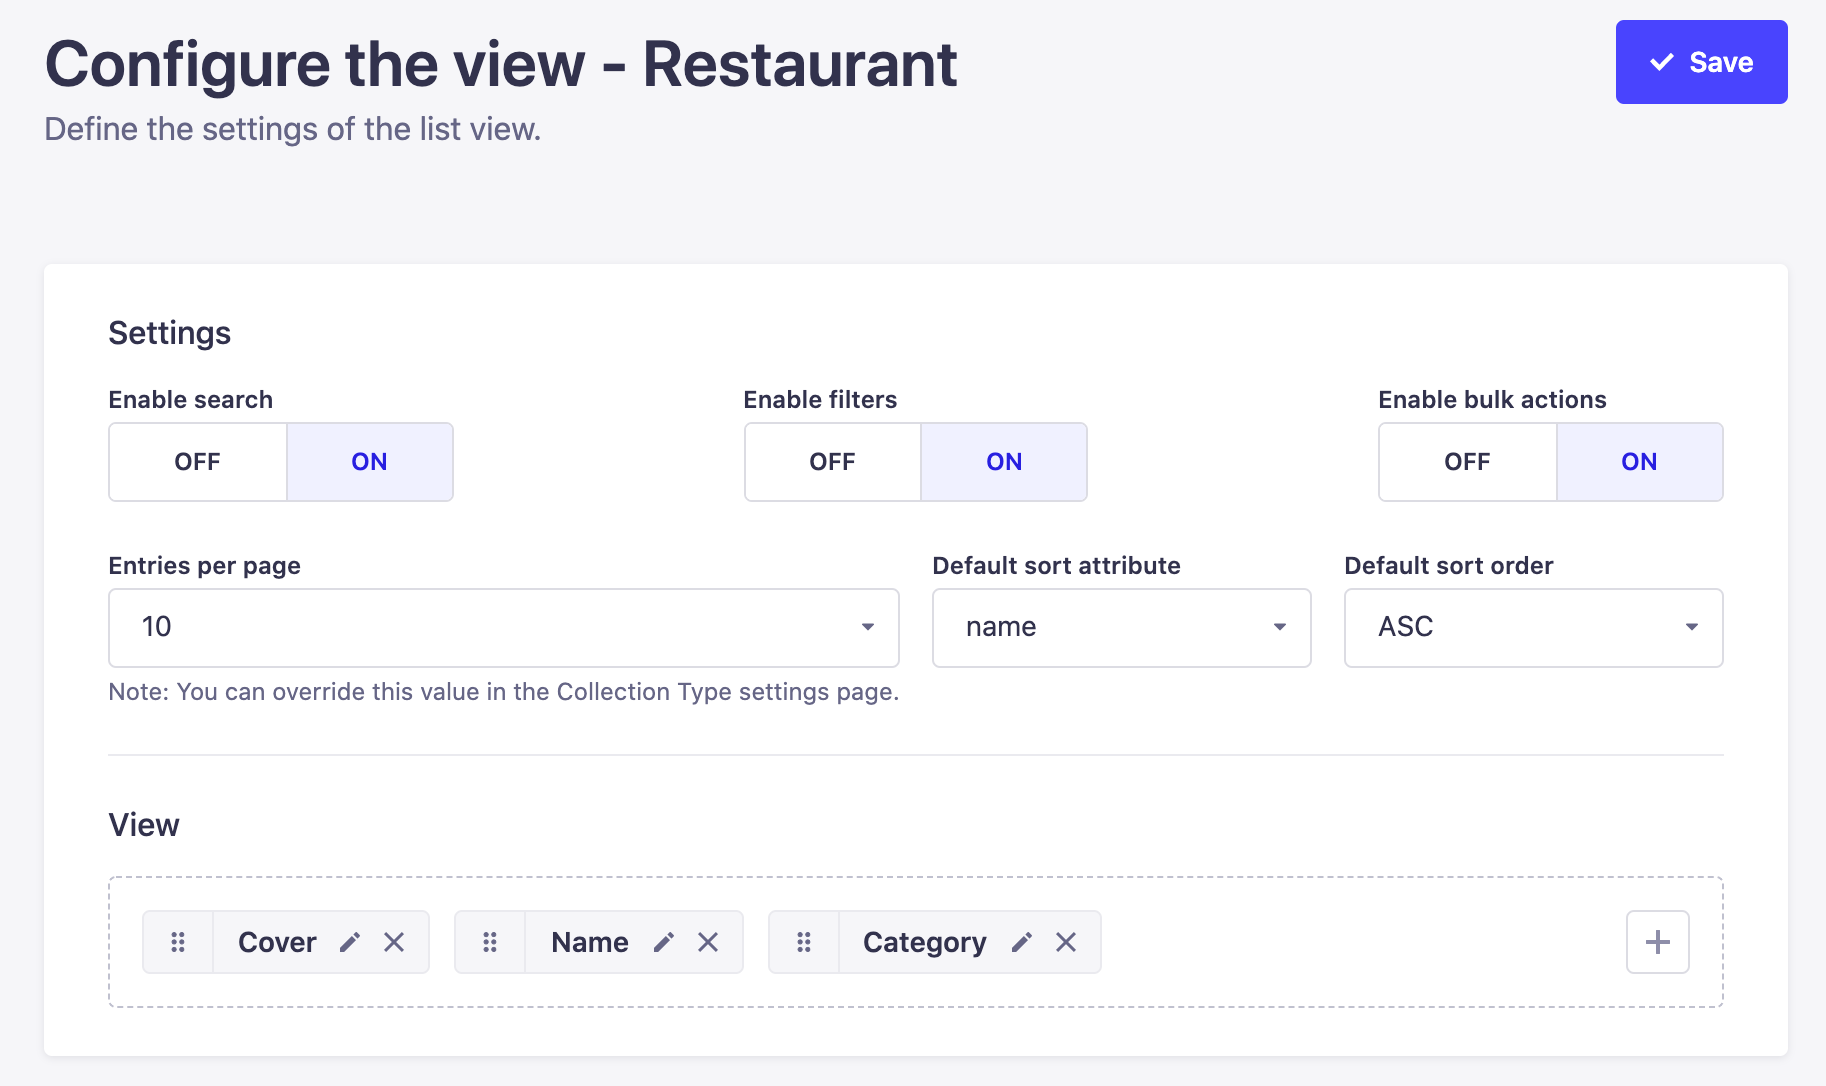
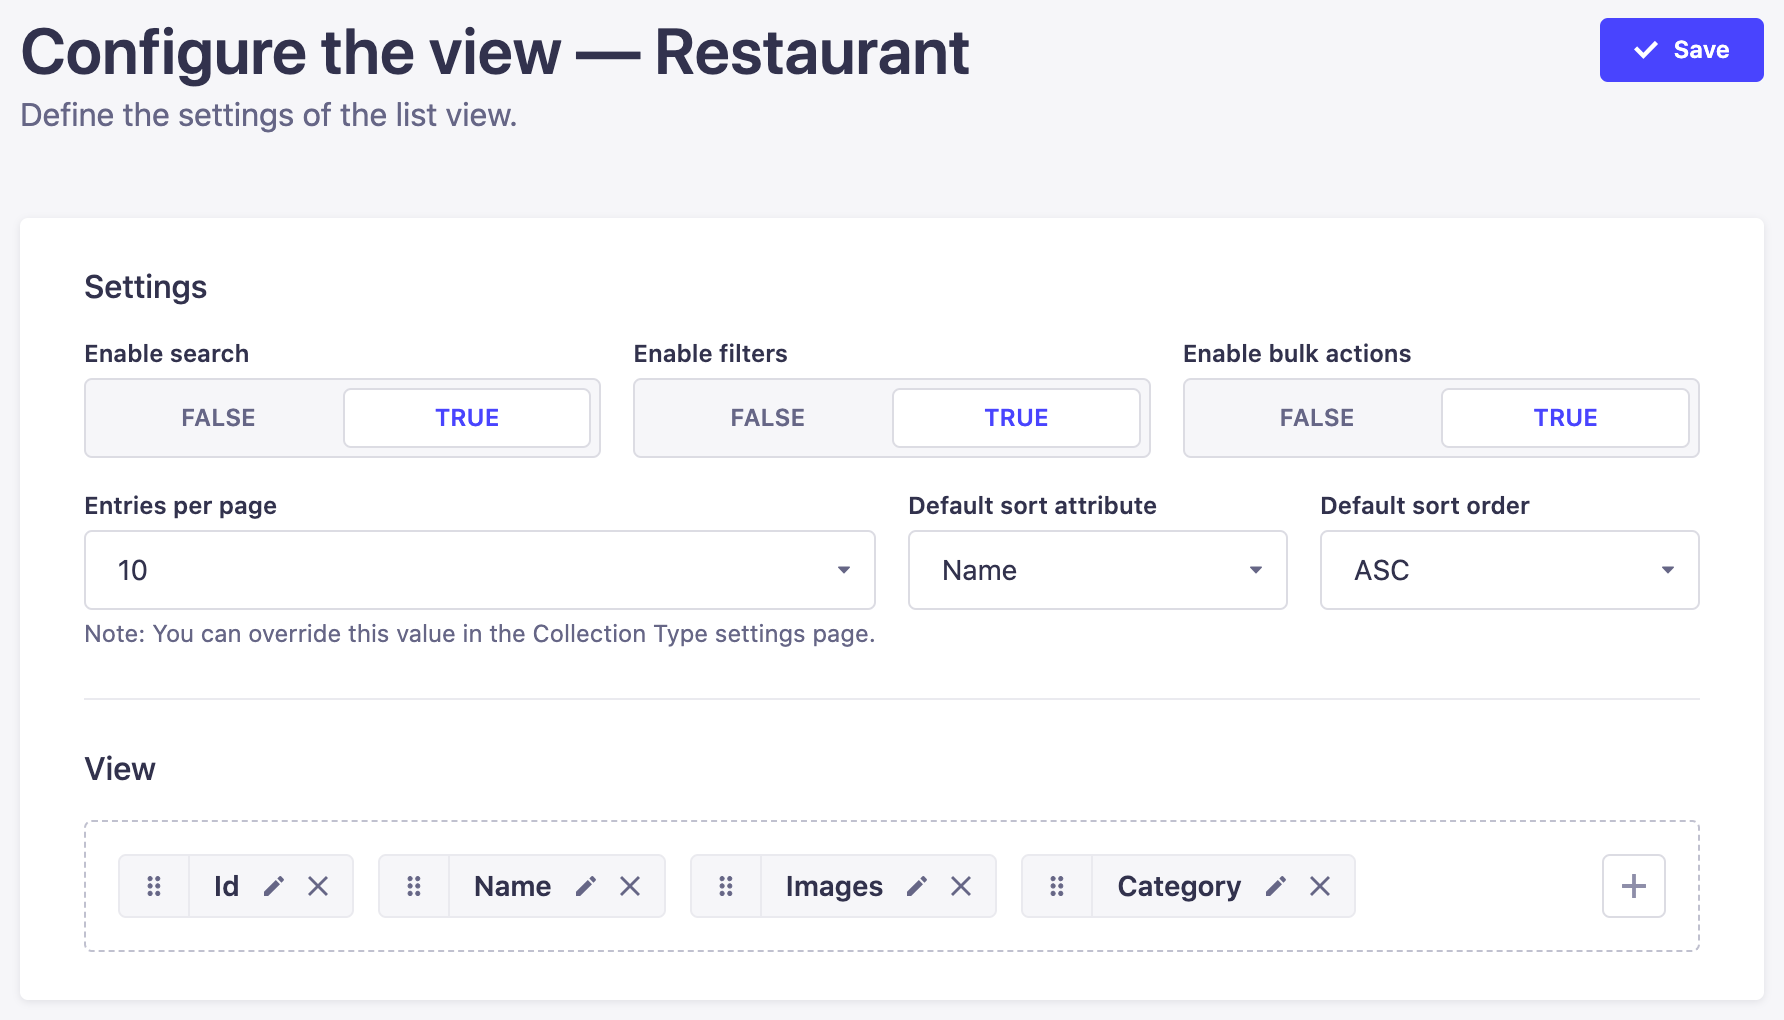
Add Dark Mode screenshots for Content Manager section

diff --git a/docusaurus/docs/user-docs/content-manager/configuring-view-of-content-type.md b/docusaurus/docs/user-docs/content-manager/configuring-view-of-content-type.md
@@ -20,7 +20,13 @@ The configurations only apply to the list view of the collection type from which
 Note also that the explanations below explain how to permanently configure which fields are displayed in the table of the list view of your collection type. It is also possible to configure the displayed fields temporarily (see [Introduction to Content Manager](/user-docs/content-manager)).
 :::
 
-![Settings of a list view in the Content Manager](/img/assets/content-manager/content-manager_settings-list-view.png)
+<ThemedImage
+  alt="Settings of a list view in the Content Manager"
+  sources={{
+    light: '/img/assets/content-manager/content-manager_settings-list-view.png',
+    dark: '/img/assets/content-manager/content-manager_settings-list-view_DARK.png',
+  }}
+/>
 
 ### List view settings
 
@@ -29,9 +35,9 @@ Note also that the explanations below explain how to permanently configure which
 
 | Setting name           | Instructions                                                                                       |
 | ---------------------- | -------------------------------------------------------------------------------------------------- |
-| Enable search          | Click on **ON** or **OFF** to able or disable the search.                                          |
-| Enable filters         | Click on **ON** or **OFF** to able or disable filters.                                             |
-| Enable bulk actions    | Click on **ON** or **OFF** to able or disable the multiple selection boxes in the list view table. |
+| Enable search          | Click on **TRUE** or **FALSE** to able or disable the search.                                          |
+| Enable filters         | Click on **TRUE** or **FALSE** to able or disable filters.                                             |
+| Enable bulk actions    | Click on **TRUE** or **FALSE** to able or disable the multiple selection boxes in the list view table. |
 | Entries per page       | Choose among the drop-down list the number of entries per page.                                    |
 | Default sort attribute | Choose the sorting field that will be used by default.                                             |
 | Default sort order     | Choose the sorting type that will be applied by default.                                           |
@@ -50,7 +56,7 @@ Note also that the explanations below explain how to permanently configure which
 | Setting name              | Instructions                                                              |
 | ------------------------- | ------------------------------------------------------------------------- |
 | Label                     | Write the label to be used for the field in the list view table.          |
-| Enable sort on this field | Click on **ON** or **OFF** to able or disable the sort on the field.      |
+| Enable sort on this field | Click on **TRUE** or **FALSE** to able or disable the sort on the field.  |
 
 4. Click on the **Save** button.
 
@@ -71,7 +77,13 @@ Note also that relational fields have a couple limitations when it comes to sort
 
 In the edit view of a content-type, in the right side of the interface, a **Configure the view** button is displayed. It allows to access the configurations that can be set for the edit view of the content-type, such as the entry title, and the display of the fields of the content-type, including the relational ones.
 
-![Configuring the edit view of the Content Manager](/img/assets/content-manager/edit-view-config2.png)
+<ThemedImage
+  alt="Configuring the edit view of the Content Manager"
+  sources={{
+    light: '/img/assets/content-manager/edit-view-config2.png',
+    dark: '/img/assets/content-manager/edit-view-config2_DARK.png',
+  }}
+/>
 
 ### Edit view settings
 

diff --git a/docusaurus/docs/user-docs/content-manager/writing-content.md b/docusaurus/docs/user-docs/content-manager/writing-content.md
@@ -10,7 +10,13 @@ displayed_sidebar: userDocsSidebar
 
 In Strapi, writing content consists in filling up fields, which are meant to contain specific content (e.g. text, numbers, media, etc.). These fields were configured for the collection or single type beforehand, through the [Content-type Builder](/user-docs/content-type-builder).
 
-![Edit view to write content](/img/assets/content-manager/edit-view2.png)
+<ThemedImage
+  alt="Edit view to write content"
+  sources={{
+    light: '/img/assets/content-manager/edit-view2.png',
+    dark: '/img/assets/content-manager/edit-view2_DARK.png',
+  }}
+/>
 
 ## Filling up fields
 
@@ -45,8 +51,22 @@ There are 2 types of components: non-repeatable and repeatable components.
 
 #### Non-repeatable components
 
-<img src="/img/assets/content-manager/edit-view_component3.png" alt="Writing content for a component" width="80%" />
-<img src="/img/assets/content-manager/edit-view_component2.png" alt="Writing content for a component" width="80%" />
+<ThemedImage
+  alt="Non-repeatable component - No entry yet"
+  width="80%"
+  sources={{
+    light: '/img/assets/content-manager/edit-view_component3.png',
+    dark: '/img/assets/content-manager/edit-view_component3_DARK.png',
+  }}
+/>
+<ThemedImage
+  alt="Non-repeatable component - With entries"
+  width="80%"
+  sources={{
+    light: '/img/assets/content-manager/edit-view_component2.png',
+    dark: '/img/assets/content-manager/edit-view_component2_DARK.png',
+  }}
+/>
 
 Non-repeatable components are a combination of fields that can be used only once.
 
@@ -59,7 +79,14 @@ To delete the non-repeatable component, click on the delete button ![Delete icon
 
 #### Repeatable components
 
-<img src="/img/assets/content-manager/edit-view_component4.png" alt="Writing content for a component" width="80%" />
+<ThemedImage
+  alt="Repeatable component"
+  width="80%"
+  sources={{
+    light: '/img/assets/content-manager/edit-view_component4.png',
+    dark: '/img/assets/content-manager/edit-view_component4_DARK.png',
+  }}
+/>
 
 Repeatable components are also a combination of fields, but they allow the creation of multiple component entries, all following the same combination of fields.
 
@@ -82,8 +109,22 @@ Unlike regular fields, the order of the entries of a repeatable component is imp
 
 Dynamic zones are a combination of components, which themselves are composed of several fields. Writing the content of a dynamic zone requires additional steps in order to access the fields.
 
-<img src="/img/assets/content-manager/edit-view_dynamic-zone-1.png" alt="Writing content for a dynamic zone" width="80%" />
-<img src="/img/assets/content-manager/edit-view_dynamic-zone-2.png" alt="Writing content for a dynamic zone" width="80%" />
+<ThemedImage
+  alt="Dynamic Zone - Component choice"
+  width="80%"
+  sources={{
+    light: '/img/assets/content-manager/edit-view_dynamic-zone-1.png',
+    dark: '/img/assets/content-manager/edit-view_dynamic-zone-1_DARK.png',
+  }}
+/>
+<ThemedImage
+  alt="Dynamic Zone - Component's entries"
+  width="80%"
+  sources={{
+    light: '/img/assets/content-manager/edit-view_dynamic-zone-2.png',
+    dark: '/img/assets/content-manager/edit-view_dynamic-zone-2_DARK.png',
+  }}
+/>
 
 1. Click on the ![Add icon](/img/assets/icons/add_circle.svg) **Add a component to [dynamic zone name]** button.
 2. Choose a component available for the dynamic zone.

diff --git a/docusaurus/docs/user-docs/content-manager/managing-relational-fields.md b/docusaurus/docs/user-docs/content-manager/managing-relational-fields.md
@@ -24,7 +24,13 @@ I want to assign a category to each of my restaurants, therefore I have establis
 In the Content Manager, from the edit view of my Restaurant entries, I can manage the Category relational field, and choose which entry of Category is relevant for my restaurant.
 </details>
 
-![Relations box in the edit view](/img/assets/content-manager/edit-view_relational-fields2.png)
+<ThemedImage
+  alt="Relational fields in the edit view"
+  sources={{
+    light: '/img/assets/content-manager/edit-view_relational-fields2.png',
+    dark: '/img/assets/content-manager/edit-view_relational-fields2_DARK.png',
+  }}
+/>
 
 The relational fields of a content-type are displayed among regular fields. For each relational field is displayed a drop-down list containing all available entry titles. It allows to choose which entry the relational fields should point to. You can either choose one or several entries depending on the type of relation that was established.
 
@@ -44,7 +50,14 @@ If the [Internationalization plugin](/user-docs/plugins/strapi-plugins#internati
 
 Many-to-one, one-to-one, and one-way types of relation only allow to choose one entry per relational field.
 
-<img src="/img/assets/content-manager/RF_one-choice2.png" alt="One-choice relational fields" width="30%" />
+<ThemedImage
+  alt="One-choice relational fields"
+  width="40%"
+  sources={{
+    light: '/img/assets/content-manager/RF_one-choice2.png',
+    dark: '/img/assets/content-manager/RF_one-choice2_DARK.png',
+  }}
+/>
 
 To select the only relevant relational field's entry:
 
@@ -61,7 +74,14 @@ To remove the entry selected in the drop-down list, click on the delete button !
 
 Many-to-many, one-to-many, and many-ways types of relation allow to choose several entries per relational field.
 
-<img src="/img/assets/content-manager/RF_multiple-choices2.png" alt="Multiple choices relational fields" width="30%" />
+<ThemedImage
+  alt="Multiple choices relational fields"
+  width="40%"
+  sources={{
+    light: '/img/assets/content-manager/RF_multiple-choices2.png',
+    dark: '/img/assets/content-manager/RF_multiple-choices2_DARK.png',
+  }}
+/>
 
 To select the relevant relational field's entries:
 

diff --git a/docusaurus/docs/user-docs/content-manager/saving-and-publishing-content.md b/docusaurus/docs/user-docs/content-manager/saving-and-publishing-content.md
@@ -16,7 +16,13 @@ The possibility to manage drafts for contents comes from the Draft & Publish fea
 
 Your contents can have 2 statuses: draft or published. You can see the current status indicated on the right of the interface, above the Information box.
 
-![Editing draft version](/img/assets/content-manager/editing_draft_version2.png)
+<ThemedImage
+  alt="Editing draft version"
+  sources={{
+    light: '/img/assets/content-manager/editing_draft_version2.png',
+    dark: '/img/assets/content-manager/editing_draft_version2_DARK.png',
+  }}
+/>
 
 By default, each newly created content is a draft. Drafts can be modified and saved at will, using the **Save** button on the top right corner of the edit view, until they are ready to be published.
 
@@ -30,7 +36,13 @@ Before publishing a draft, make sure it doesn't have relations with other non-pu
 
 When a content is not a draft anymore, but has been published, it is indicated on the right of the interface, above the Information box.
 
-![Editing published version](/img/assets/content-manager/editing_published_version2.png)
+<ThemedImage
+  alt="Editing published version"
+  sources={{
+    light: '/img/assets/content-manager/editing_published_version2.png',
+    dark: '/img/assets/content-manager/editing_published_version2_DARK.png',
+  }}
+/>
 
 :::tip
 To schedule publication, i.e. convert a draft to a published entry at a given date and time, you can follow [this technical guide](https://forum.strapi.io/t/schedule-publications/23184) which requires adding custom code to the Strapi application.

diff --git a/docusaurus/docs/user-docs/content-manager/reviewing-content.md b/docusaurus/docs/user-docs/content-manager/reviewing-content.md
@@ -9,7 +9,13 @@ Using the [review workflows](/user-docs/settings/review-workflows) feature, you 
 
 When viewing your content in the Content Manager, you can see the current stage of any item in the **Review Stage** column:
 
-![Review Stage column](/img/assets/content-manager/review-stage-column.png)
+<ThemedImage
+  alt="Review Stage column"
+  sources={{
+    light: '/img/assets/content-manager/review-stage-column.png',
+    dark: '/img/assets/content-manager/review-stage-column_DARK.png',
+  }}
+/>
 
 ## Change review stage
 
@@ -21,6 +27,12 @@ To change the review stage of your content:
 2. In the Information box, click on the *Review stage* drop-down list.
 3. Choose the new review stage of your entry. It is automatically saved.
 
-![Review Stage dropdown](/img/assets/content-manager/review-stage-dropdown.png)
+<ThemedImage
+  alt="Review Stage dropdown"
+  sources={{
+    light: '/img/assets/content-manager/review-stage-dropdown.png',
+    dark: '/img/assets/content-manager/review-stage-dropdown_DARK.png',
+  }}
+/>
 
 <FeedbackPlaceholder />

diff --git a/docusaurus/docs/user-docs/content-manager/translating-content.md b/docusaurus/docs/user-docs/content-manager/translating-content.md
@@ -10,7 +10,13 @@ sidebar_position: 5
 
 With the [Internationalization plugin](/user-docs/plugins/strapi-plugins#internationalization-plugin) installed, it is possible to manage content in more than one language, called "locale". To manage content in a specific locale, the latter must be added beforehand through the Internationalization settings (see [Configuring Internationalization locales](../settings/internationalization)).
 
-![Edit view of a localizable content-type](/img/assets/content-manager/content-manager_translate2.png)
+<ThemedImage
+  alt="Edit view of a localizable content-type"
+  sources={{
+    light: '/img/assets/content-manager/content-manager_translate2.png',
+    dark: '/img/assets/content-manager/content-manager_translate2_DARK.png',
+  }}
+/>
 
 In the Content Manager, when the Internationalization plugin is installed, some options are added to the edit view:
 
